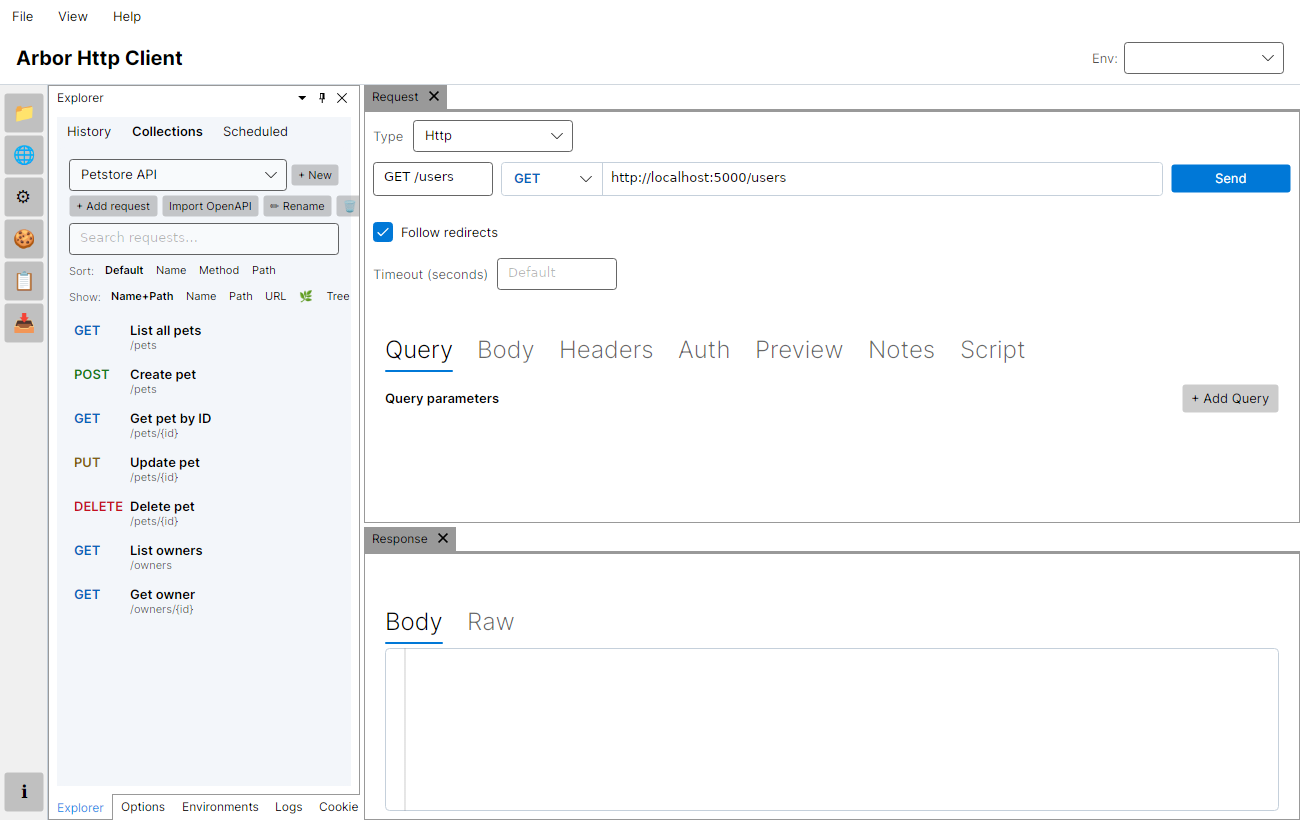
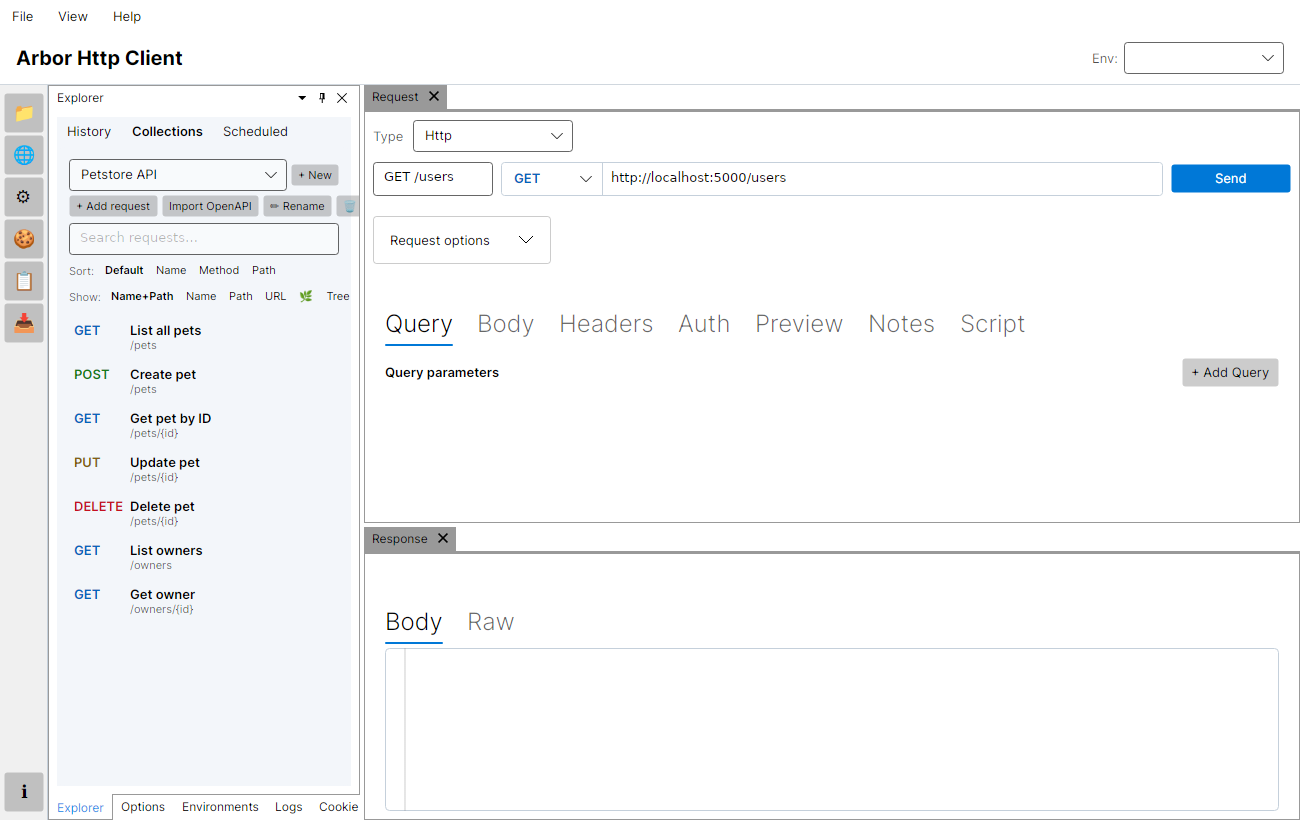
Constrain request timeout input and collapse request options
Agent-Logs-Url: https://github.com/niklaslundberg/Arbor.HttpClient/sessions/21750c99-9eec-422b-adea-b5014c1114f5

diff --git a/src/Arbor.HttpClient.Desktop/Features/HttpRequest/RequestEditorViewModel.cs b/src/Arbor.HttpClient.Desktop/Features/HttpRequest/RequestEditorViewModel.cs
@@ -348,6 +348,30 @@ public sealed partial class RequestEditorViewModel : ViewModelBase
     partial void OnIsRequestHeadersPreviewVisibleChanged(bool value) =>
         OnPropertyChanged(nameof(RequestHeadersPreviewLabel));
 
+    partial void OnRequestTimeoutSecondsTextChanged(string value)
+    {
+        if (string.IsNullOrEmpty(value))
+        {
+            return;
+        }
+
+        var digitsOnly = new string(value.Where(char.IsDigit).ToArray());
+        if (digitsOnly.Length == 0)
+        {
+            RequestTimeoutSecondsText = string.Empty;
+            return;
+        }
+
+        var normalized = int.TryParse(digitsOnly, NumberStyles.None, CultureInfo.InvariantCulture, out var parsed)
+            ? Math.Min(parsed, 100).ToString(CultureInfo.InvariantCulture)
+            : "100";
+
+        if (!string.Equals(value, normalized, StringComparison.Ordinal))
+        {
+            RequestTimeoutSecondsText = normalized;
+        }
+    }
+
     // ── Public methods ────────────────────────────────────────────────────────
 
     /// <summary>
@@ -389,9 +413,11 @@ public sealed partial class RequestEditorViewModel : ViewModelBase
         int? timeoutSeconds = null;
         if (!string.IsNullOrWhiteSpace(RequestTimeoutSecondsText))
         {
-            if (!int.TryParse(RequestTimeoutSecondsText, NumberStyles.None, CultureInfo.InvariantCulture, out var parsedTimeoutSeconds) || parsedTimeoutSeconds < 1)
+            if (!int.TryParse(RequestTimeoutSecondsText, NumberStyles.None, CultureInfo.InvariantCulture, out var parsedTimeoutSeconds)
+                || parsedTimeoutSeconds < 0
+                || parsedTimeoutSeconds > 100)
             {
-                throw new InvalidDataException("Request timeout must be a positive whole number of seconds.");
+                throw new InvalidDataException("Request timeout must be a whole number between 0 and 100 seconds.");
             }
 
             timeoutSeconds = parsedTimeoutSeconds;

diff --git a/src/Arbor.HttpClient.Desktop.E2E.Tests/RequestEditorViewModelTests.cs b/src/Arbor.HttpClient.Desktop.E2E.Tests/RequestEditorViewModelTests.cs
@@ -1,4 +1,3 @@
-using System.IO;
 using Arbor.HttpClient.Desktop.Features.HttpRequest;
 using Arbor.HttpClient.Core.Environments;
 using Arbor.HttpClient.Core.Variables;
@@ -299,6 +298,17 @@ public class RequestEditorViewModelTests
     }
 
     [Fact]
+    public void BuildDraft_UsesNoTimeout_WhenPerRequestTimeoutIsZero()
+    {
+        var editor = CreateEditor();
+        editor.RequestTimeoutSecondsText = "0";
+
+        var draft = editor.BuildDraft();
+
+        draft.TimeoutSeconds.Should().Be(0);
+    }
+
+    [Fact]
     public void BuildDraft_UsesNullTimeout_WhenPerRequestTimeoutIsBlank()
     {
         var editor = CreateEditor();
@@ -310,14 +320,30 @@ public class RequestEditorViewModelTests
     }
 
     [Fact]
-    public void BuildDraft_ThrowsInvalidDataException_WhenPerRequestTimeoutIsInvalid()
+    public void BuildDraft_UsesNullTimeout_WhenPerRequestTimeoutContainsNoDigits()
     {
         var editor = CreateEditor();
         editor.RequestTimeoutSecondsText = "abc";
+        var draft = editor.BuildDraft();
+        draft.TimeoutSeconds.Should().BeNull();
+    }
 
-        var action = () => editor.BuildDraft();
+    [Fact]
+    public void BuildDraft_ClampsPerRequestTimeoutToMaximum()
+    {
+        var editor = CreateEditor();
+        editor.RequestTimeoutSecondsText = "101";
+        var draft = editor.BuildDraft();
+        draft.TimeoutSeconds.Should().Be(100);
+    }
 
-        action.Should().Throw<InvalidDataException>().WithMessage("*positive whole number*");
+    [Fact]
+    public void RequestTimeoutSecondsText_ShouldKeepOnlyDigits_AndClampToMaximum()
+    {
+        var editor = CreateEditor();
+        editor.RequestTimeoutSecondsText = "a1b2c3";
+
+        editor.RequestTimeoutSecondsText.Should().Be("100");
     }
 
     [Fact]

diff --git a/src/Arbor.HttpClient.Core.Tests/HttpRequestServiceTests.cs b/src/Arbor.HttpClient.Core.Tests/HttpRequestServiceTests.cs
@@ -243,6 +243,23 @@ public class HttpRequestServiceTests
     }
 
     [Fact]
+    public async Task SendAsync_ShouldDisableTimeout_WhenPerRequestTimeoutIsZero()
+    {
+        var repository = new InMemoryRequestHistoryRepository();
+        var handler = new AsyncStubHttpMessageHandler(async (_, cancellationToken) =>
+        {
+            await Task.Delay(TimeSpan.FromMilliseconds(300), cancellationToken);
+            return new HttpResponseMessage(HttpStatusCode.OK) { Content = new StringContent("completed") };
+        });
+        var service = new HttpRequestService(new global::System.Net.Http.HttpClient(handler), repository);
+        service.SetDefaultRequestTimeout(TimeSpan.FromMilliseconds(100));
+
+        var response = await service.SendAsync(new HttpRequestDraft("TimeoutDisabled", "GET", "http://localhost:5000/slow", null, TimeoutSeconds: 0), TestContext.Current.CancellationToken);
+
+        response.Body.Should().Be("completed");
+    }
+
+    [Fact]
     public async Task SendAsync_ShouldPublishHttpDiagnostics_WhenEnabled()
     {
         var handler = new StubHttpMessageHandler(_ =>

diff --git a/src/Arbor.HttpClient.Core/HttpRequest/HttpRequestService.cs b/src/Arbor.HttpClient.Core/HttpRequest/HttpRequestService.cs
@@ -85,9 +85,12 @@ public sealed class HttpRequestService(global::System.Net.Http.HttpClient httpCl
         var totalStopwatch = Stopwatch.StartNew();
         var requestedHttpVersion = requestMessage.Version.ToString(2);
 
-        var effectiveTimeout = requestDraft.TimeoutSeconds is > 0
-            ? TimeSpan.FromSeconds(requestDraft.TimeoutSeconds.Value)
-            : _defaultRequestTimeout;
+        var effectiveTimeout = requestDraft.TimeoutSeconds switch
+        {
+            > 0 => TimeSpan.FromSeconds(requestDraft.TimeoutSeconds.Value),
+            0 => null,
+            _ => _defaultRequestTimeout
+        };
         using var timeoutCts = effectiveTimeout is { }
             ? CancellationTokenSource.CreateLinkedTokenSource(cancellationToken)
             : null;

diff --git a/src/Arbor.HttpClient.Desktop/Localization/Strings.Designer.cs b/src/Arbor.HttpClient.Desktop/Localization/Strings.Designer.cs
@@ -165,6 +165,9 @@ public static class Strings
     /// <summary>Follow redirects</summary>
     public static string RequestFollowRedirects => Get(nameof(RequestFollowRedirects));
 
+    /// <summary>Request options</summary>
+    public static string RequestAdvancedOptionsHeader => Get(nameof(RequestAdvancedOptionsHeader));
+
     /// <summary>Timeout (seconds)</summary>
     public static string RequestTimeoutSecondsLabel => Get(nameof(RequestTimeoutSecondsLabel));
 
